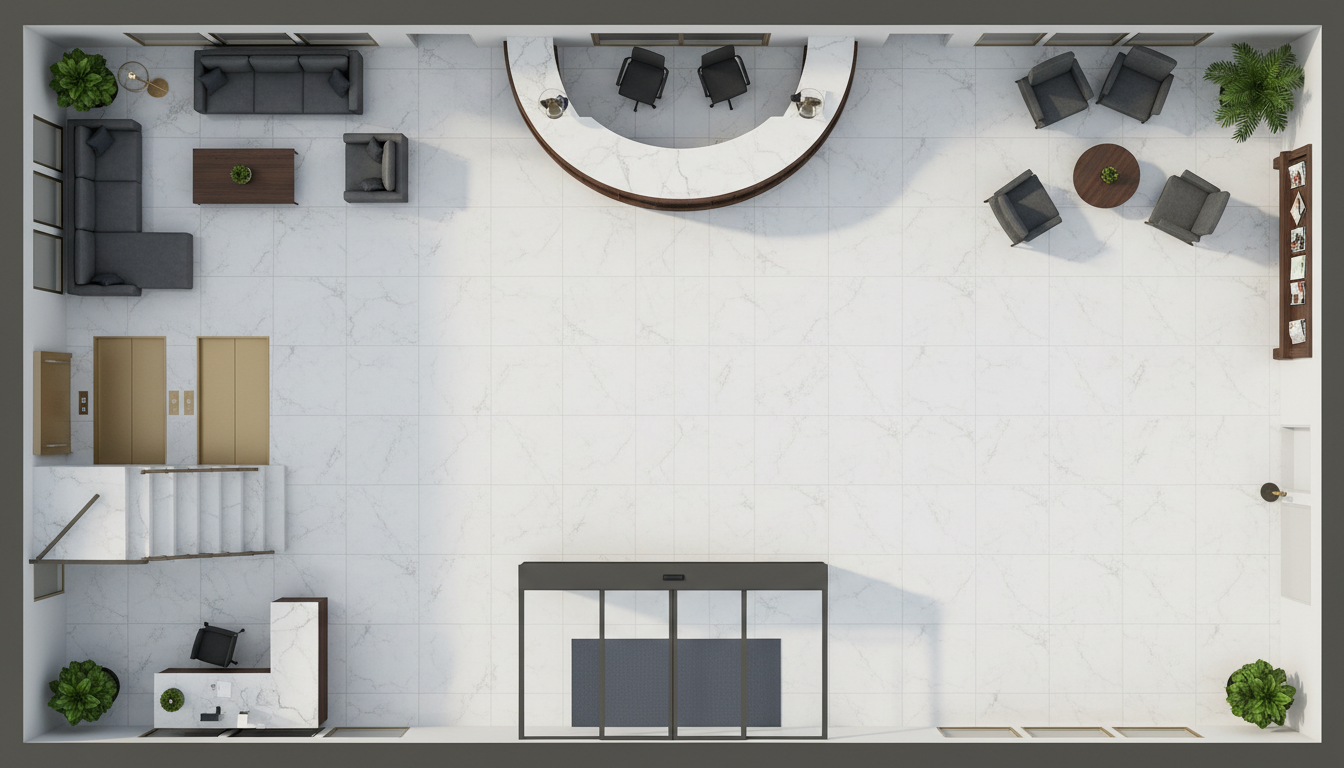
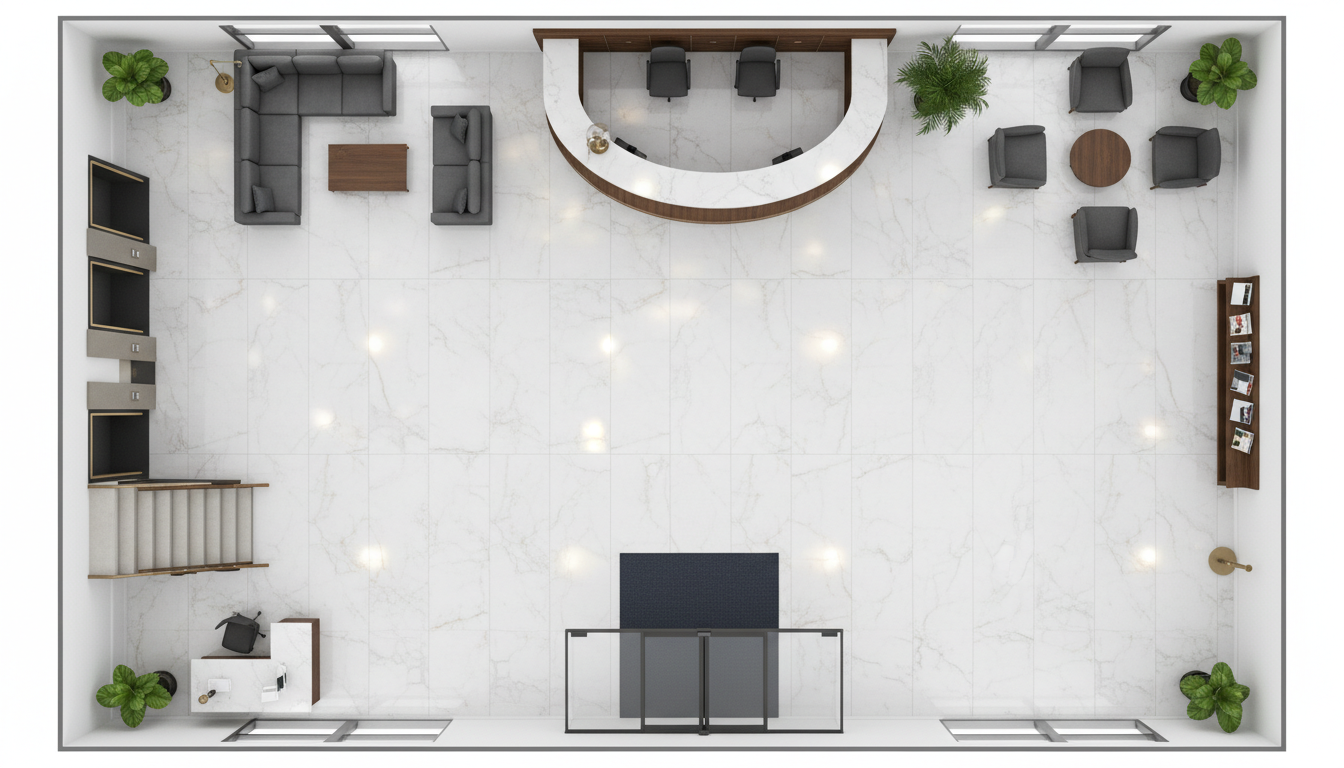
ロビー: エレベーター方向を左壁面に正対させる (v=16)
3基のエレベーターが左壁に埋め込まれ、開口部が右(ロビー側)向き。階段も併記。

diff --git a/scripts/gen_floor.js b/scripts/gen_floor.js
@@ -26,7 +26,7 @@ Layout: 1F ENTRANCE LOBBY of a modern Japanese corporate office, focused on visi
 - Upper-center: LARGE RECEPTION COUNTER (long curved desk in dark wood with marble inset top) with 2 reception chairs behind it (no sign, no text plate)
 - Upper-left: visitor waiting area - two L-shaped charcoal grey leather sofas facing each other, rectangular dark wood coffee table, brass floor lamp
 - Upper-right: second waiting area - 3 individual lounge chairs (dark grey) around a round dark wood coffee table, tall potted palm
-- Left-middle wall: elevator bank (3 plain elevator doors with brushed brass frames) and stairs going up
+- Left-middle wall: ELEVATOR BANK of 3 elevators built INTO the left wall. CRITICAL: in top-down view, the elevator door openings must face RIGHT into the lobby (the door slits visible as thin vertical lines on the wall surface, with each elevator showing as a recessed dark rectangle flush against the left wall). Brushed brass frame around each door. Do NOT show elevator cars as freestanding boxes in the room. Stairs going up are also along the left wall just below the elevator bank, with steps oriented so a person walks UPWARD toward the upper edge of the canvas.
 - Right-middle: plain shelf with magazines (no signs)
 - Center floor: OPEN WALKING AREA with the polished marble visible (NO logo, NO letters on floor)
 - Left-bottom: security guard booth (small counter) with chair

diff --git a/public/index.html b/public/index.html
@@ -950,7 +950,7 @@ function resize() {
 let stdLogo = null;
 function loadBackground(src) {
   bgImage = new Image();
-  bgImage.src = (src || '/assets/office_bg.png') + '?v=15';
+  bgImage.src = (src || '/assets/office_bg.png') + '?v=16';
   if (!stdLogo) {
     stdLogo = new Image();
     stdLogo.src = '/assets/std_logo.png?v=1';
